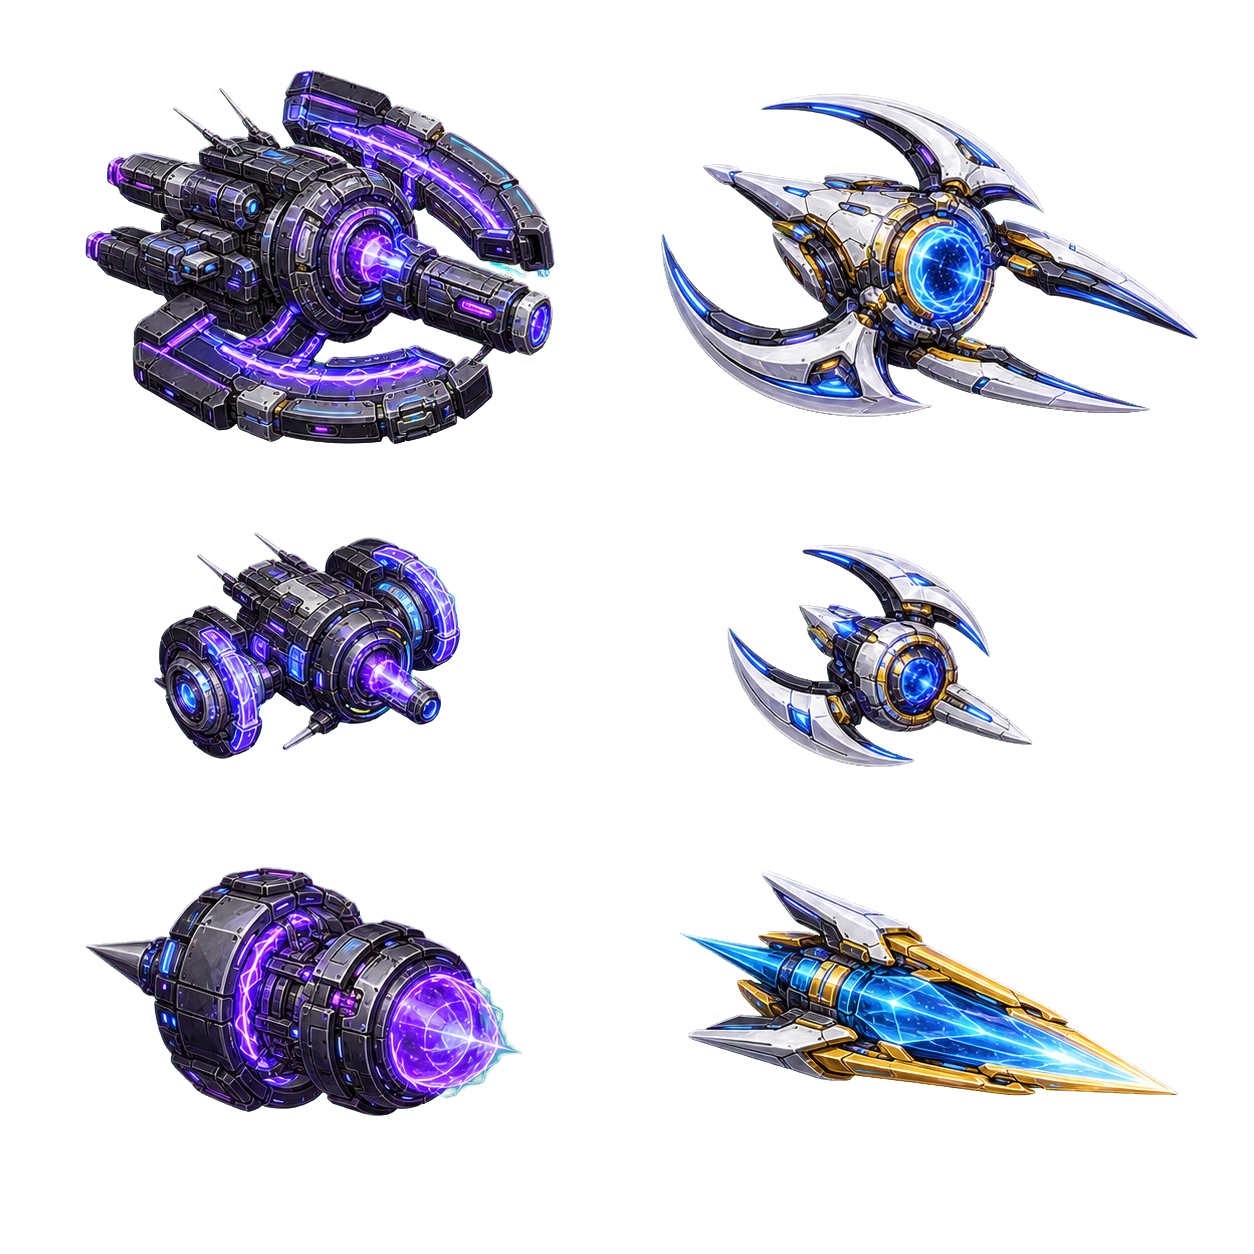
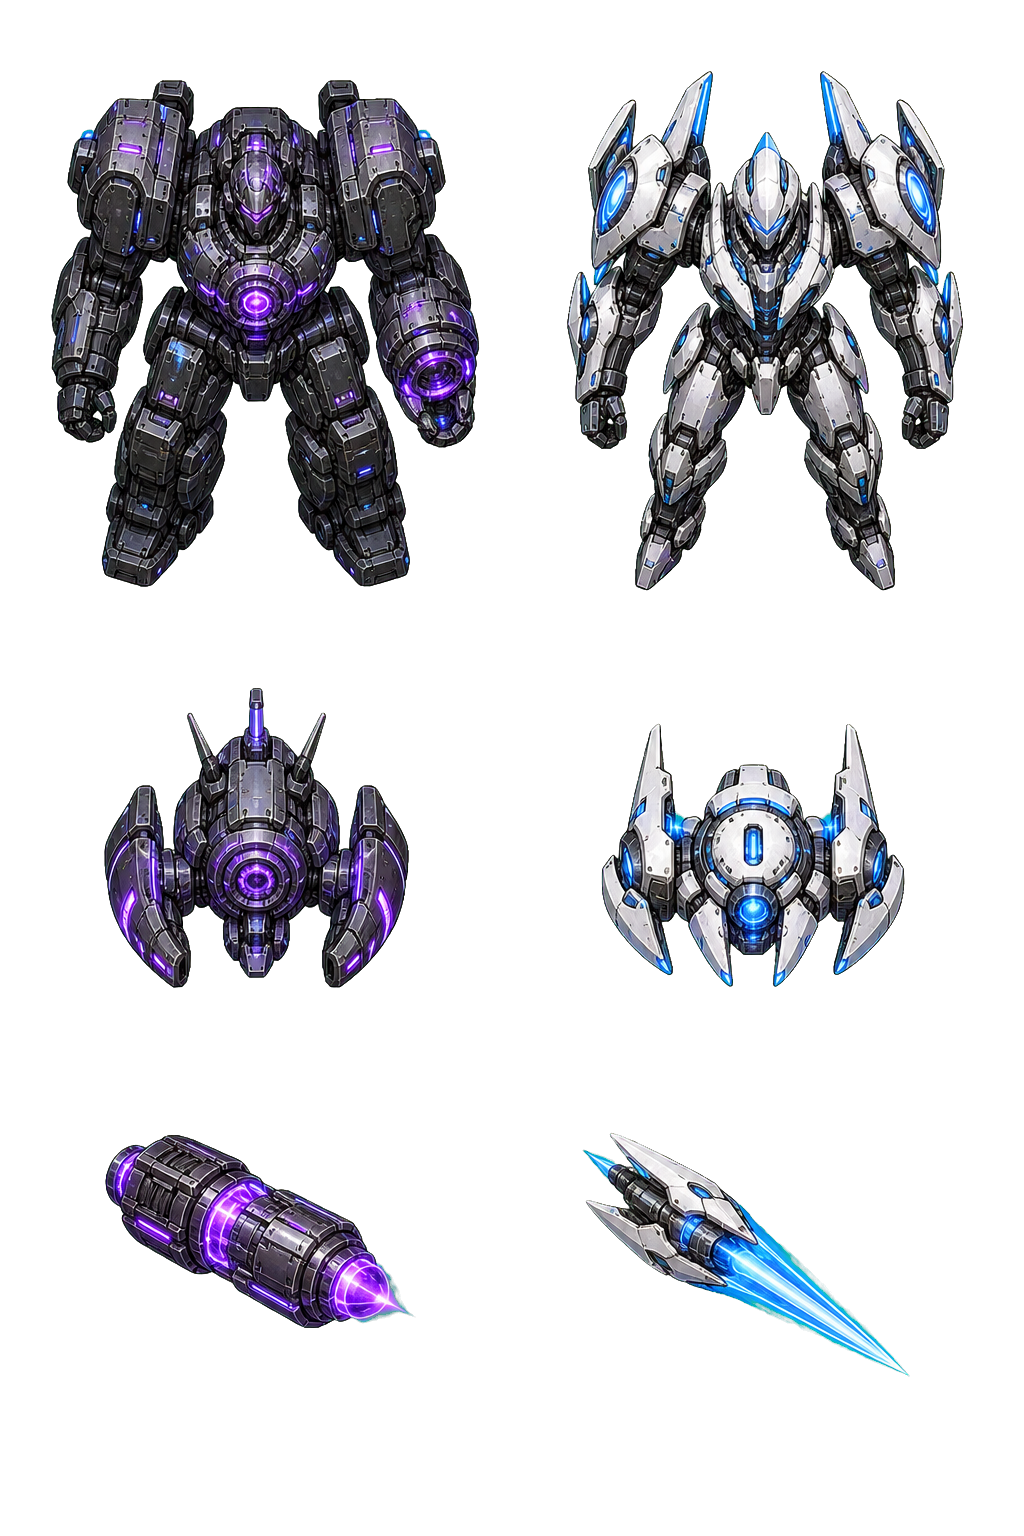
fix: unify new mech art and clear combat canvas

diff --git a/games/ember-protocol/game.css b/games/ember-protocol/game.css
@@ -1,4 +1,4 @@
-.loadout .classGrid,.coopLoadout .classGrid{grid-template-columns:repeat(4,minmax(0,1fr))}.mechPreview.laserPreview,.mechPreview.frostPreview,.mechPreview.bladePreview,.mechPreview.gravityPreview,.mechPreview.thunderPreview,.mechPreview.skyPreview,.mechPreview.cinderPreview,.mechPreview.aegisPreview,.mechPreview.venomPreview,.mechPreview.chronoPreview{background-size:contain;background-position:center;background-repeat:no-repeat}.mechPreview.magnetPreview,.mechPreview.portalPreview{background-size:200% auto;background-repeat:no-repeat}.mechPreview.magnetPreview{background-position:0 0}.mechPreview.portalPreview{background-position:100% 0}
+.loadout .classGrid,.coopLoadout .classGrid{grid-template-columns:repeat(4,minmax(0,1fr))}.mechPreview.laserPreview,.mechPreview.frostPreview,.mechPreview.bladePreview,.mechPreview.gravityPreview,.mechPreview.thunderPreview,.mechPreview.skyPreview,.mechPreview.cinderPreview,.mechPreview.aegisPreview,.mechPreview.venomPreview,.mechPreview.chronoPreview{background-size:contain;background-position:center;background-repeat:no-repeat}.mechPreview.magnetPreview,.mechPreview.portalPreview{background-size:200% auto;background-repeat:no-repeat}.mechPreview.magnetPreview{background-position:0 6%}.mechPreview.portalPreview{background-position:100% 6%}
 @media(max-width:820px){.loadout .classGrid,.coopLoadout .classGrid{grid-template-columns:repeat(2,minmax(0,1fr))}}
 
 .loadout{width:min(1180px,92vw);margin:5vh auto;padding-bottom:7vh}.loadout h2{font-family:Georgia,"Noto Serif SC",serif;font-size:clamp(38px,5vw,60px);margin:0 0 12px}.loadout>p{max-width:720px;color:#96a096;line-height:1.75;margin-bottom:28px}.classGrid{display:grid;grid-template-columns:repeat(4,minmax(0,1fr));gap:13px}.classGrid button{position:relative;min-width:0;padding:0 18px 20px;text-align:left;background:#17211c;border:1px solid #35443a;color:var(--paper);cursor:pointer;overflow:hidden;transition:.2s transform,.2s border-color,.2s background}.classGrid button:hover{transform:translateY(-4px);border-color:rgba(244,201,93,.65)}.classGrid button.selected{border-color:var(--ember);background:linear-gradient(180deg,rgba(244,201,93,.1),#17211c 62%);box-shadow:inset 0 -3px var(--ember),0 12px 30px rgba(0,0,0,.2)}.mechPreview{display:block;width:100%;height:150px;background-size:200% 200%;background-repeat:no-repeat;filter:drop-shadow(0 12px 14px rgba(0,0,0,.38))}.mech-0{background-position:0 0}.mech-1{background-position:100% 0}.mech-2{background-position:0 100%}.mech-3{background-position:100% 100%}.classGrid button>small{display:block;color:#869289;font:9px/1 monospace;letter-spacing:.16em;text-transform:uppercase}.classGrid button>b{display:block;margin:7px 0 14px;font:700 23px/1 Georgia,"Noto Serif SC",serif;color:#eef1e9}.classGrid button>span:not(.mechPreview){display:block;min-height:32px;margin-top:8px;color:#879389;font-size:11px;line-height:1.45}.classGrid button em{display:inline-block;margin-right:7px;color:var(--ember);font:normal 800 9px/1 monospace}.launchClass{display:block;margin:28px auto 0}.coopLoadout{margin:28px 0 8px;padding-top:24px;border-top:1px solid rgba(217,224,206,.12)}.coopLoadoutHeading{display:flex;justify-content:space-between;align-items:end;gap:24px;margin-bottom:15px}.coopLoadoutHeading small,.coopLoadoutHeading b{display:block}.coopLoadoutHeading small{color:var(--ember);font:9px/1 monospace;letter-spacing:.16em}.coopLoadoutHeading b{margin-top:6px;font-size:19px}.coopLoadoutHeading>span{max-width:430px;color:#8f9b91;font-size:11px;line-height:1.55}.coopLoadout .classGrid{gap:8px}.coopLoadout .classGrid button{padding:0 10px 12px}.coopLoadout .mechPreview{height:92px}.coopLoadout .classGrid button>b{font-size:16px;margin:4px 0 8px}.coopLoadout .classGrid button>span:not(.mechPreview){font-size:9px;min-height:27px;margin-top:4px}.coopLoadout .classGrid button em{font-size:8px}.skillDock{position:absolute;left:16px;top:14px;z-index:5;display:grid;grid-template-columns:48px minmax(130px,auto) auto;align-items:center;gap:9px;padding:7px 8px;background:rgba(12,20,16,.82);border:1px solid rgba(244,201,93,.26);backdrop-filter:blur(7px)}.skillDock .mechPreview{width:48px;height:40px}.skillDock small,.skillDock b{display:block}.skillDock small{color:#8d9a90;font:8px/1 monospace;letter-spacing:.1em}.skillDock b{max-width:250px;margin-top:5px;color:#e0e5dd;font-size:10px}.skillDock button{height:32px;min-width:64px;padding:0 10px;border:0;background:var(--ember);color:#151b16;font:900 9px/1 monospace;cursor:pointer}.skillDock button:disabled{background:#354139;color:#8e9990;cursor:wait}.secondarySkillDock{top:76px;border-color:rgba(117,230,218,.32)}.secondarySkillDock button{background:#75e6da}.secondarySkillIcon{display:grid;place-items:center;width:48px;height:40px;color:#bdf8f1;border:1px solid rgba(117,230,218,.38);background:radial-gradient(circle,rgba(117,230,218,.22),rgba(117,230,218,.04));font:900 18px/1 monospace;box-shadow:inset 0 0 16px rgba(117,230,218,.08)}.waitingUpgrade{position:relative}.waitingPulse{display:block;width:18px;height:18px;margin:24px auto 0;border-radius:50%;background:var(--ember);box-shadow:0 0 0 0 rgba(244,201,93,.45);animation:waiting-pulse 1.4s infinite}@keyframes waiting-pulse{70%{box-shadow:0 0 0 18px rgba(244,201,93,0)}100%{box-shadow:0 0 0 0 rgba(244,201,93,0)}}
@@ -103,3 +103,8 @@ footer{font-size:11px}
 .signatureCompendium{position:relative;z-index:2;margin-top:64px;padding:28px;background:rgba(11,17,14,.82);border:1px solid rgba(167,140,255,.32);box-shadow:0 24px 70px rgba(0,0,0,.24)}.signatureCompendiumHeading{display:flex;justify-content:space-between;align-items:end;gap:30px;padding-bottom:20px;border-bottom:1px solid rgba(217,224,206,.12)}.signatureCompendiumHeading small{display:block;color:#a78cff;font:900 11px/1 monospace;letter-spacing:.14em}.signatureCompendiumHeading h2{margin:8px 0 0;font:700 clamp(28px,3.3vw,44px)/1.1 Georgia,"Noto Serif SC",serif}.signatureCompendiumHeading p{max-width:470px;margin:0;color:#929f95;font-size:14px;line-height:1.7}.signatureCompendiumGrid{display:grid;grid-template-columns:repeat(3,minmax(0,1fr));gap:12px;margin-top:20px}.signatureCompendium article{min-width:0;padding:16px;background:linear-gradient(145deg,rgba(167,140,255,.09),rgba(21,32,26,.94));border:1px solid #3b3a49}.signatureCompendium article header{display:flex;align-items:center;gap:11px}.signatureCompendium article header>i{display:grid;place-items:center;width:38px;height:38px;color:#d2c2ff;background:rgba(167,140,255,.1);border:1px solid rgba(167,140,255,.34);font:normal 22px/1 Georgia}.signatureCompendium article header small,.signatureCompendium article header b{display:block}.signatureCompendium article header small{color:#818d84;font:9px/1 monospace;letter-spacing:.08em}.signatureCompendium article header b{margin-top:5px;color:#e4def3;font:700 17px/1.15 Georgia,"Noto Serif SC",serif}.signatureCompendium article ol{display:grid;gap:7px;margin:14px 0 0;padding:0;list-style:none}.signatureCompendium article li{display:grid;grid-template-columns:42px 1fr;gap:8px;align-items:start;padding-top:7px;border-top:1px solid rgba(217,224,206,.08)}.signatureCompendium article li em{color:#f4c95d;font:normal 900 9px/1.5 monospace}.signatureCompendium article li span{color:#aeb7af;font-size:11px;line-height:1.5}
 @media(max-width:920px){.signatureCompendiumGrid{grid-template-columns:repeat(2,minmax(0,1fr))}}
 @media(max-width:620px){.signatureCompendium{margin-top:42px;padding:18px 13px}.signatureCompendiumHeading{display:block}.signatureCompendiumHeading p{margin-top:12px}.signatureCompendiumGrid{grid-template-columns:1fr}.signatureCompendium article{padding:14px}.signatureCompendium article li span{font-size:12px}}
+
+/* 0.18.1: keep ability, ultimate and set descriptions outside the combat canvas. */
+.battleLoadoutPanel{display:grid;grid-template-columns:1.2fr 1.1fr .9fr;gap:10px;margin-top:11px}.battleSkillActions{display:grid;grid-template-columns:repeat(2,minmax(0,1fr));gap:8px}.battleSkillActions .combatSkill{min-height:94px;padding:12px 13px;background:#15201a;backdrop-filter:none}.battleSkillActions .combatSkill span{display:block;margin-top:9px;color:#a5afa7;font-size:11px;line-height:1.5}.battleUltimateArchive{display:grid;grid-template-columns:minmax(0,1fr) 78px;align-items:center;gap:10px;padding:12px 13px;background:linear-gradient(145deg,rgba(126,95,209,.13),#151d19);border:1px solid rgba(167,140,255,.42)}.battleUltimateArchive .ultimateCopy small,.battleUltimateArchive .ultimateCopy b,.battleUltimateArchive .ultimateCopy em{display:block}.battleUltimateArchive .ultimateCopy small{color:#978db0;font:9px/1 monospace;letter-spacing:.1em}.battleUltimateArchive .ultimateCopy b{margin-top:6px;color:#dfd6f7;font:700 14px/1.15 Georgia,"Noto Serif SC",serif}.battleUltimateArchive .ultimateCopy em{margin-top:7px;color:#a7afa9;font:normal 11px/1.5 sans-serif}.battleUltimateArchive>i{grid-column:1/-1;display:block;height:7px;background:#29342e;overflow:hidden}.battleUltimateArchive>i>em{display:block;height:100%;background:linear-gradient(90deg,#765ed0,#f4c95d);box-shadow:0 0 10px #a78cff;transition:.16s width}.battleUltimateArchive button{grid-column:2;grid-row:1;height:36px;padding:0 9px;border:1px solid #4a4562;background:#28243b;color:#a59cbf;font:900 10px/1 monospace}.battleUltimateArchive.ready{border-color:#f4c95d;box-shadow:0 0 18px rgba(244,201,93,.14)}.battleUltimateArchive.ready button{background:var(--ember);border-color:var(--ember);color:#171b16;cursor:pointer}.battleSetArchive{display:grid;grid-template-columns:40px 1fr;align-items:start;gap:10px;padding:12px 13px;background:rgba(167,140,255,.07);border:1px solid rgba(167,140,255,.34);box-shadow:inset 3px 0 #a78cff}.battleSetArchive>i{display:grid;place-items:center;width:38px;height:38px;color:#cabaff;font:normal 23px/1 Georgia}.battleSetArchive small,.battleSetArchive b,.battleSetArchive em{display:block}.battleSetArchive small{color:#9086a3;font:9px/1 monospace;letter-spacing:.06em}.battleSetArchive b{margin-top:6px;color:#e0d9ef;font:700 14px/1.15 Georgia,"Noto Serif SC",serif}.battleSetArchive em{margin-top:8px;color:#a6afa8;font:normal 11px/1.5 sans-serif}.battleSetArchive.pieces-3{border-color:rgba(244,201,93,.58);box-shadow:inset 3px 0 #f4c95d,0 0 16px rgba(244,201,93,.12)}.externalRelicReport{position:relative;left:auto;top:auto;z-index:2;transform:none;width:100%;margin-top:11px;animation:external-relic-report 7.2s ease both}@keyframes external-relic-report{0%{opacity:0;transform:translateY(-8px)}7%,82%{opacity:1;transform:translateY(0)}100%{opacity:0;transform:translateY(-6px)}}
+@media(max-width:980px){.battleLoadoutPanel{grid-template-columns:1fr 1fr}.battleSetArchive{grid-column:1/-1}}
+@media(max-width:620px){.battleLoadoutPanel{grid-template-columns:1fr}.battleSkillActions{grid-template-columns:1fr 1fr}.battleUltimateArchive,.battleSetArchive{grid-column:auto}.battleSkillActions .combatSkill{min-height:82px;padding:9px}.battleSkillActions .combatSkill span,.battleUltimateArchive .ultimateCopy em,.battleSetArchive em{font-size:10px}.externalRelicReport{width:100%;margin-top:9px}}

diff --git a/games/ember-protocol/Game.tsx b/games/ember-protocol/Game.tsx
@@ -5640,8 +5640,8 @@ export default function Home() {
         const cellW = quantumSheet ? mechImage.naturalWidth / 2 : independentSprite ? mechImage.naturalWidth : mechImage.naturalWidth / 2;
         const cellH = quantumSheet ? mechImage.naturalHeight / 3 : independentSprite ? mechImage.naturalHeight : mechImage.naturalHeight / 2;
         const size = classInfo.renderSize;
-        const mechDrawW = quantumSheet ? size * 1.45 : size;
-        const mechDrawH = quantumSheet ? size * .96 : size;
+        const mechDrawW = size;
+        const mechDrawH = size;
         ctx.save();
         if(actor.hp<=0){ctx.globalAlpha=.34;ctx.filter="grayscale(1) brightness(.72)";}
         ctx.shadowColor=ally?"#78a99d":actor.color;
@@ -5693,7 +5693,7 @@ export default function Home() {
           const target=enemies.length?enemies.reduce((nearest,enemy)=>dist(position,enemy)<dist(position,nearest)?enemy:nearest):null;
           const angle=target?Math.atan2(target.y-position.y,target.x-position.x):position.angle+Math.PI/2;
           const size=classInfo.id==="cinder"||classInfo.id==="aegis"?42:classInfo.id==="frost"||classInfo.id==="gravity"||classInfo.id==="chrono"?38:classInfo.id==="blade"||classInfo.id==="thunder"||classInfo.id==="sky"||classInfo.id==="venom"?36:32;
-          const droneDrawW=quantumSheet?size*1.45:size,droneDrawH=quantumSheet?size*.96:size;
+          const droneDrawW=size,droneDrawH=size;
           ctx.save();ctx.translate(position.x,position.y);ctx.rotate(angle);ctx.shadowColor=classInfo.color;ctx.shadowBlur=10;
           ctx.drawImage(droneImage,(sprite%droneColumns)*cellW,quantumSheet?cellH:classInfo.sheet==="core"?Math.floor(sprite/2)*cellH:0,cellW,cellH,-droneDrawW/2,-droneDrawH/2,droneDrawW,droneDrawH);
           ctx.restore();
@@ -5874,7 +5874,7 @@ export default function Home() {
     <main className="shell" onPointerDownCapture={()=>wakeAudio()} onKeyDownCapture={()=>wakeAudio()}>
       <header className="topbar">
         <button className="brand" onClick={()=>void returnToMenu()} aria-label="返回主菜单"><span>余烬</span><b>协议</b></button>
-        <div className="status"><i /> 版本 0.18.0 · 星门武器进化与动态战区</div>
+        <div className="status"><i /> 版本 0.18.1 · 统一机甲美术与战斗视野整理</div>
         <div className={`audioControl ${audioOpen ? "open" : ""}`}>
           <button className="iconBtn" onClick={toggleSound} aria-label={sound ? "关闭声音" : "开启声音"} title={sound ? "声音已开启" : "声音已关闭"}>
             <span aria-hidden="true">{sound ? "♫" : "×"}</span>
@@ -5975,14 +5975,6 @@ export default function Home() {
           <canvas ref={canvasRef} aria-label="余烬协议游戏画面"/>
           {signalMode && <div className="syncBadge"><i /> 共享战场 · {signalMode==="host"?"队长同步":"伙伴同步"}</div>}
           {bossLootNotice && <div key={bossLootNotice} className="bossNotice">{bossLootNotice}</div>}
-          {relicPickupReport && <div key={`${relicPickupReport.relicTitle}-${relicPickupReport.pieces}`} className="relicPickupReport">
-            <small>遗物拾取确认 · {RARITY_LABELS[relicPickupReport.relicRarity]}</small>
-            <b>{relicPickupReport.relicTitle}</b>
-            <span><em>核心效果</em>{relicPickupReport.relicEffect}</span>
-            <span><em>套装进度</em>{relicPickupReport.setIcon} {relicPickupReport.setName} · {relicPickupReport.pieces}/3</span>
-            {relicPickupReport.activated.map((effect,index)=><span key={effect} className="relicActivated"><em>本次激活 {index+1}</em>{effect}</span>)}
-            <strong>{relicPickupReport.next}</strong>
-          </div>}
           <div className="runModules">
             {battleMission && <div className="missionBadge">
               <i>{battleMission.id==="hold"?"◆":battleMission.id==="elite"?"⌖":"✦"}</i>
@@ -5991,20 +5983,24 @@ export default function Home() {
             {activeWarzoneInfo && <div className="warzoneBadge" style={{"--zone-color":activeWarzoneInfo.color} as CSSProperties}>
               <i>{activeWarzoneInfo.icon}</i><span><small>当前战区 · 至第 {warzoneState?.expiresAtWave} 波</small><b>{activeWarzoneInfo.title}</b></span>
             </div>}
-            <div className={`signatureBadge pieces-${signaturePieces}`}>
-              <i>{selectedSignatureSet.icon}</i><span><small>职业遗物套装</small><b>{selectedSignatureSet.name} · {signaturePieces}/3</b></span>
-            </div>
           </div>
           {signalMode && teammateHp!==null && <div className={`teammateHealth ${teammateHp<=0?"down":""}`}>
             <span><b>队友机体</b><small>{teammateHp<=0?"已倒地":`${teammateHp}/${teammateMaxHp}`}</small></span>
             <i><em style={{width:`${clamp(teammateHp/Math.max(1,teammateMaxHp)*100,0,100)}%`}}/></i>
           </div>}
-          <div className="combatSkillRack" aria-label="战斗技能快捷键">
+          {hp<=0&&!paused&&<div className="downedSpectator"><b>机体倒地 · 正在观战</b><span>{rescueProgress>0?`累计施救进度 ${Math.round(rescueProgress*100)}%`:"队友靠近累计施救 2 秒即可复活你"}</span></div>}
+          <div className="health"><span>{selectedClassSpec.name} · 机体完整度</span><div><i style={{width:`${clamp(hp / Math.max(1, maxHp) * 100, 0, 100)}%`}}/></div><b>{hp}/{maxHp}</b></div>
+          <div className="xp"><i style={{width:`${xp}%`}}/></div>
+          <div className="mobileHint">按住并拖动来移动</div>
+        </div>
+        <section className="battleLoadoutPanel" aria-label="战斗画面外机体档案">
+          <div className="battleSkillActions">
             <button className="combatSkill primaryCombatSkill"
               onClick={()=>activeSkillRef.current()}
               disabled={hp<=0||(selectedClass==="phantom"?skillCharges<=0:skillCooldown>0)}
             >
-              <small>Q · 主技能</small><b>{hp<=0
+              <small>Q · 主技能</small>
+              <b>{hp<=0
                 ?"倒地"
                 :selectedClass==="phantom"
                   ?skillCharges>0
@@ -6013,21 +6009,31 @@ export default function Home() {
                   :skillCooldown>0
                     ?`${skillCooldown}s`
                     :"就绪"}</b>
+              <span>{selectedClassSpec.active}</span>
             </button>
             <button className="combatSkill secondaryCombatSkill" onClick={()=>secondarySkillRef.current()} disabled={secondarySkillCooldown>0||hp<=0}>
               <small>E · 副技能</small><b>{hp<=0?"倒地":secondarySkillCooldown>0?`${secondarySkillCooldown}s`:"就绪"}</b>
+              <span>{selectedClassSpec.secondary}</span>
             </button>
           </div>
-          <div className={`ultimateDock ${ultimateEnergy>=100?"ready":""}`}>
-            <span className="ultimateCopy"><small>R · 终极能量</small><b>{ULTIMATE_NAMES[selectedClass]}</b></span>
+          <div className={`battleUltimateArchive ${ultimateEnergy>=100?"ready":""}`}>
+            <span className="ultimateCopy"><small>R · 终极能量</small><b>{ULTIMATE_NAMES[selectedClass]}</b><em>{selectedClassSpec.ultimate}</em></span>
             <i><em style={{width:`${clamp(ultimateEnergy,0,100)}%`}}/></i>
             <button onClick={()=>activeUltimateRef.current()} disabled={ultimateEnergy<100||hp<=0}>{ultimateEnergy>=100?"R · 释放":`${Math.floor(ultimateEnergy)}%`}</button>
           </div>
-          {hp<=0&&!paused&&<div className="downedSpectator"><b>机体倒地 · 正在观战</b><span>{rescueProgress>0?`累计施救进度 ${Math.round(rescueProgress*100)}%`:"队友靠近累计施救 2 秒即可复活你"}</span></div>}
-          <div className="health"><span>{selectedClassSpec.name} · 机体完整度</span><div><i style={{width:`${clamp(hp / Math.max(1, maxHp) * 100, 0, 100)}%`}}/></div><b>{hp}/{maxHp}</b></div>
-          <div className="xp"><i style={{width:`${xp}%`}}/></div>
-          <div className="mobileHint">按住并拖动来移动</div>
-        </div>
+          <div className={`battleSetArchive pieces-${signaturePieces}`}>
+            <i>{selectedSignatureSet.icon}</i>
+            <span><small>职业遗物套装 · {signaturePieces}/3</small><b>{selectedSignatureSet.name}</b><em>{signaturePieces>=3?"完整套装机制已激活":`下一件：${selectedSignatureSet.tiers[signaturePieces]}`}</em></span>
+          </div>
+        </section>
+        {relicPickupReport && <div key={`${relicPickupReport.relicTitle}-${relicPickupReport.pieces}`} className="relicPickupReport externalRelicReport">
+          <small>遗物拾取确认 · {RARITY_LABELS[relicPickupReport.relicRarity]}</small>
+          <b>{relicPickupReport.relicTitle}</b>
+          <span><em>核心效果</em>{relicPickupReport.relicEffect}</span>
+          <span><em>套装进度</em>{relicPickupReport.setIcon} {relicPickupReport.setName} · {relicPickupReport.pieces}/3</span>
+          {relicPickupReport.activated.map((effect,index)=><span key={effect} className="relicActivated"><em>本次激活 {index+1}</em>{effect}</span>)}
+          <strong>{relicPickupReport.next}</strong>
+        </div>}
         <button className="quit" onClick={()=>void returnToMenu()}>结束远征</button>
         {choices && <div className="overlay">
           <div className="upgradePanel"><div className="eyebrow">个人机体强化 · 独立选择</div><h2>选择你的专属遗物</h2><p>完成 3 次基础武器强化后会解锁一次二选一武器进化，可选择高速弹幕或重型爆破路线。生命上限类强化获得 1.55 倍抽取权重；基础伤害、射速、多重弹、暴击、弹速与本职业主武器强化获得 1.5 倍权重。稀有、史诗与传说强化会随波数提高概率，并在第 12 波达到上限。达到机制上限的强化会移出奖池，装配完成后恢复 18% 最大生命值。</p>

diff --git a/games/ember-protocol/README.md b/games/ember-protocol/README.md
@@ -10,6 +10,12 @@
 
 创建房间后，把游戏生成的房间链接发给朋友，对方打开链接即可加入。
 
+## 0.18.1 更新
+
+- 重绘磁暴型与星门型机甲、无人机和弹丸，统一为旧机甲使用的人形双足、硬表面工业科幻美术风格。
+- 修正新素材在战斗画面中的宽高比例，避免机体被横向拉伸。
+- 将主技能、副技能、终极技能和职业遗物套装说明移出战斗画布，遗物拾取报告也不再遮挡战斗。
+
 ## 0.18.0 更新
 
 - 新增武器进化系统：完成 3 次基础武器强化后开启一次二选一分支，每台机甲都有独立命名的高速弹幕与重型爆破终态，并真实改变射速、弹数、弹体、穿透和范围爆破。
